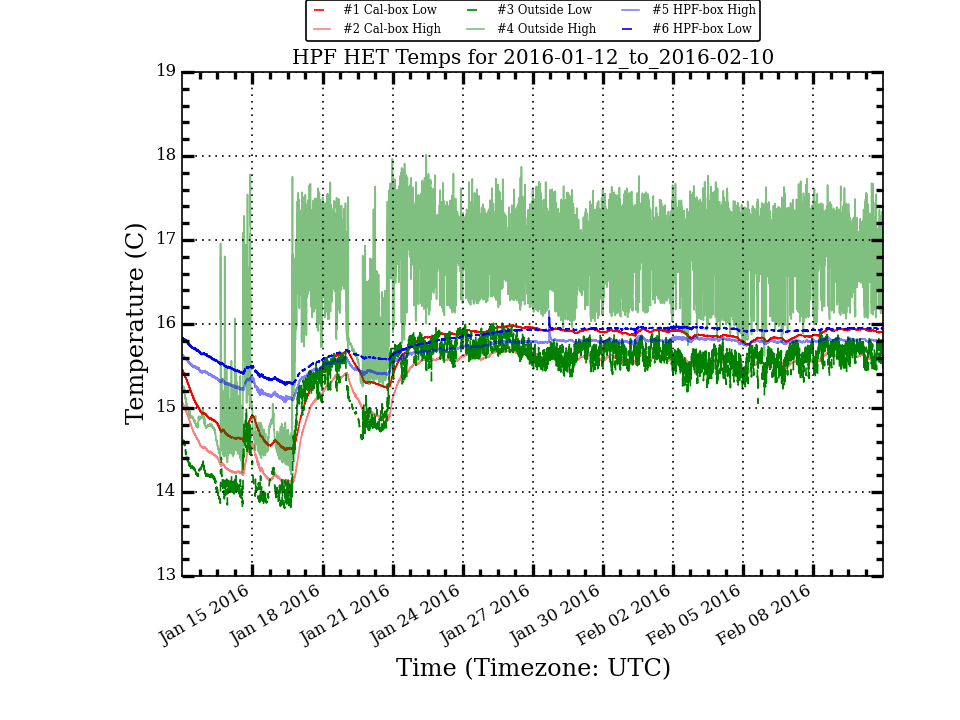
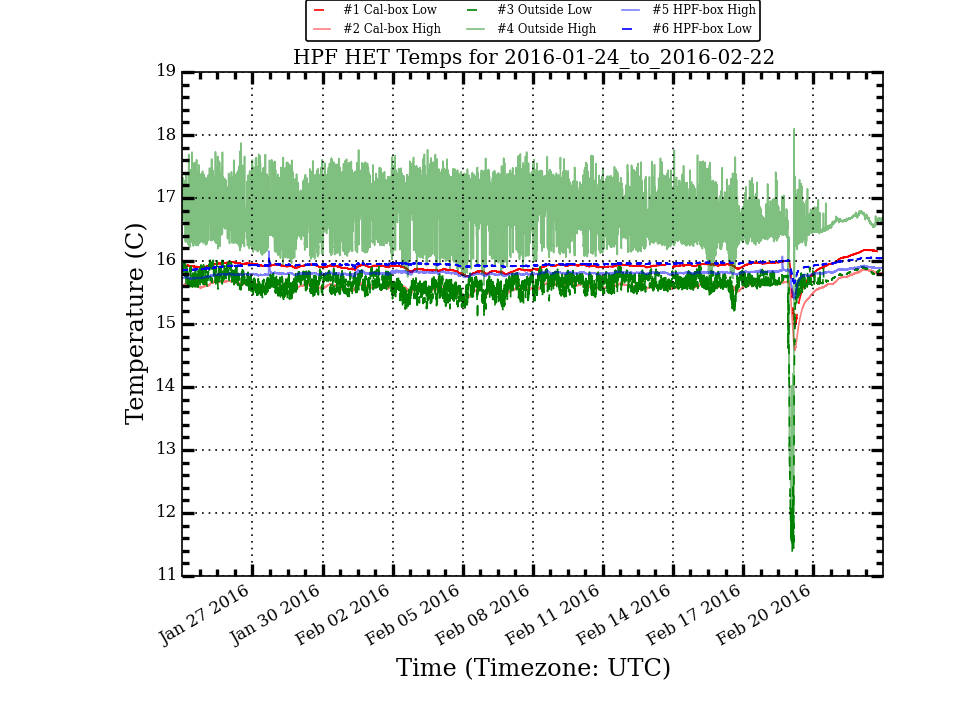
Update HPF Temp Plots

diff --git a/research/hpf_temps/plots/LakeShoreLogTotal_week_stats.html b/research/hpf_temps/plots/LakeShoreLogTotal_week_stats.html
@@ -10,56 +10,56 @@
  </TR>
  <TR>
   <TD>Cal_Low</TD>
-  <TD>15.868</TD>
-  <TD>0.052</TD>
-  <TD>15.861</TD>
-  <TD>15.957</TD>
-  <TD>15.754</TD>
-  <TD>0.203</TD>
+  <TD>15.931</TD>
+  <TD>0.217</TD>
+  <TD>15.964</TD>
+  <TD>16.177</TD>
+  <TD>14.958</TD>
+  <TD>1.219</TD>
  </TR>
  <TR>
   <TD>Cal_High</TD>
-  <TD>15.564</TD>
-  <TD>0.056</TD>
-  <TD>15.566</TD>
-  <TD>15.672</TD>
-  <TD>15.415</TD>
-  <TD>0.257</TD>
+  <TD>15.604</TD>
+  <TD>0.225</TD>
+  <TD>15.633</TD>
+  <TD>15.874</TD>
+  <TD>14.586</TD>
+  <TD>1.288</TD>
  </TR>
  <TR>
   <TD>Out_Low</TD>
-  <TD>15.591</TD>
-  <TD>0.134</TD>
-  <TD>15.601</TD>
-  <TD>15.911</TD>
-  <TD>15.055</TD>
-  <TD>0.856</TD>
+  <TD>15.586</TD>
+  <TD>0.641</TD>
+  <TD>15.689</TD>
+  <TD>15.906</TD>
+  <TD>11.376</TD>
+  <TD>4.530</TD>
  </TR>
  <TR>
   <TD>Out_High</TD>
-  <TD>16.782</TD>
-  <TD>0.401</TD>
-  <TD>16.885</TD>
-  <TD>17.730</TD>
-  <TD>15.617</TD>
-  <TD>2.113</TD>
+  <TD>16.430</TD>
+  <TD>0.664</TD>
+  <TD>16.536</TD>
+  <TD>18.099</TD>
+  <TD>11.861</TD>
+  <TD>6.238</TD>
  </TR>
  <TR>
   <TD>HPF_High</TD>
-  <TD>15.799</TD>
-  <TD>0.018</TD>
-  <TD>15.799</TD>
-  <TD>15.846</TD>
-  <TD>15.741</TD>
-  <TD>0.105</TD>
+  <TD>15.822</TD>
+  <TD>0.078</TD>
+  <TD>15.827</TD>
+  <TD>16.074</TD>
+  <TD>15.402</TD>
+  <TD>0.672</TD>
  </TR>
  <TR>
   <TD>HPF_Low</TD>
-  <TD>15.934</TD>
-  <TD>0.014</TD>
-  <TD>15.932</TD>
-  <TD>15.958</TD>
-  <TD>15.900</TD>
-  <TD>0.058</TD>
+  <TD>15.972</TD>
+  <TD>0.066</TD>
+  <TD>15.980</TD>
+  <TD>16.056</TD>
+  <TD>15.634</TD>
+  <TD>0.422</TD>
  </TR>
 </TABLE>

diff --git a/research/hpf_temps/plots/LakeShoreLogTotal_month_stats.html b/research/hpf_temps/plots/LakeShoreLogTotal_month_stats.html
@@ -10,56 +10,56 @@
  </TR>
  <TR>
   <TD>Cal_Low</TD>
-  <TD>15.630</TD>
-  <TD>0.439</TD>
-  <TD>15.859</TD>
-  <TD>15.984</TD>
-  <TD>14.496</TD>
-  <TD>1.488</TD>
+  <TD>15.911</TD>
+  <TD>0.112</TD>
+  <TD>15.922</TD>
+  <TD>16.177</TD>
+  <TD>14.958</TD>
+  <TD>1.219</TD>
  </TR>
  <TR>
   <TD>Cal_High</TD>
-  <TD>15.312</TD>
-  <TD>0.469</TD>
-  <TD>15.562</TD>
-  <TD>15.688</TD>
-  <TD>14.080</TD>
-  <TD>1.608</TD>
+  <TD>15.595</TD>
+  <TD>0.115</TD>
+  <TD>15.604</TD>
+  <TD>15.874</TD>
+  <TD>14.586</TD>
+  <TD>1.288</TD>
  </TR>
  <TR>
   <TD>Out_Low</TD>
-  <TD>15.330</TD>
-  <TD>0.571</TD>
-  <TD>15.564</TD>
+  <TD>15.621</TD>
+  <TD>0.330</TD>
+  <TD>15.646</TD>
   <TD>16.014</TD>
-  <TD>13.793</TD>
-  <TD>2.221</TD>
+  <TD>11.376</TD>
+  <TD>4.638</TD>
  </TR>
  <TR>
   <TD>Out_High</TD>
-  <TD>16.406</TD>
-  <TD>0.841</TD>
-  <TD>16.666</TD>
-  <TD>18.017</TD>
-  <TD>14.206</TD>
-  <TD>3.811</TD>
+  <TD>16.652</TD>
+  <TD>0.480</TD>
+  <TD>16.647</TD>
+  <TD>18.099</TD>
+  <TD>11.861</TD>
+  <TD>6.238</TD>
  </TR>
  <TR>
   <TD>HPF_High</TD>
-  <TD>15.656</TD>
-  <TD>0.207</TD>
-  <TD>15.779</TD>
+  <TD>15.805</TD>
+  <TD>0.044</TD>
+  <TD>15.806</TD>
   <TD>16.156</TD>
-  <TD>15.065</TD>
-  <TD>1.091</TD>
+  <TD>15.402</TD>
+  <TD>0.754</TD>
  </TR>
  <TR>
   <TD>HPF_Low</TD>
-  <TD>15.797</TD>
-  <TD>0.194</TD>
-  <TD>15.919</TD>
+  <TD>15.947</TD>
+  <TD>0.040</TD>
+  <TD>15.949</TD>
   <TD>16.080</TD>
-  <TD>15.269</TD>
-  <TD>0.811</TD>
+  <TD>15.634</TD>
+  <TD>0.446</TD>
  </TR>
 </TABLE>
